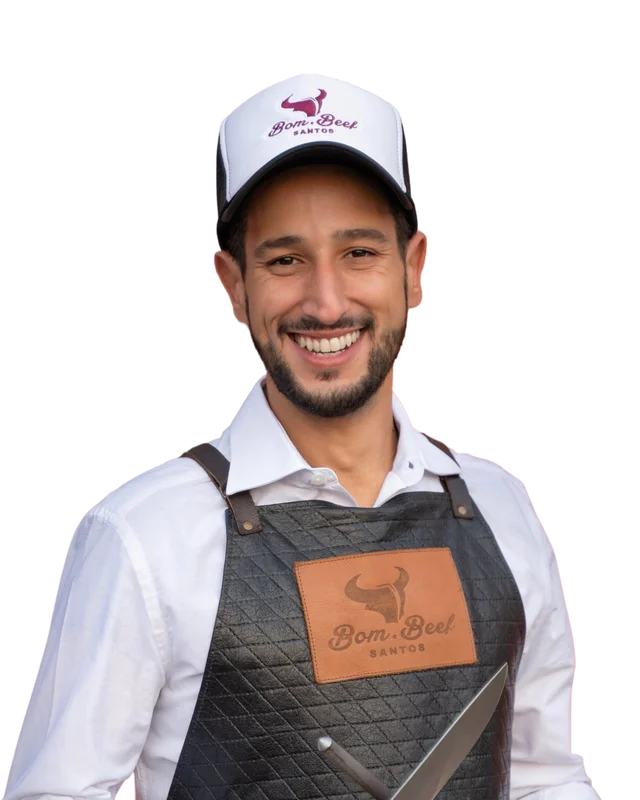
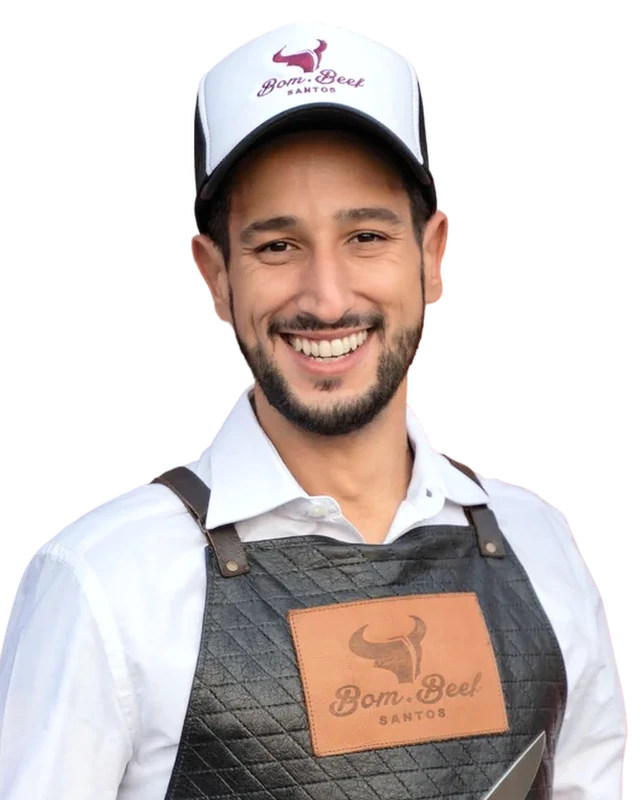
Convite: fotos novas Ingrid e Barreira, color grading unificado

diff --git a/public/convencao-2026/index.html b/public/convencao-2026/index.html
@@ -2070,13 +2070,13 @@ footer{padding:clamp(30px,4vw,48px) 0!important}
    Participante: {nome:'Nome', empresa:'Empresa', papel:'Palestrante', foto:'/convencao-2026/fotos/nome.jpg'}
    Parceiro:     {nome:'Marca', logo:'/convencao-2026/logos/marca.png', site:'https://...'}  (logo e site opcionais) */
 var PARTICIPANTES = [
-  {nome:'Edu Guedes', empresa:'Apresentador de TV', papel:'Chef de cozinha', foto:'/convencao-2026/fotos/edu-guedes.webp'},
-  {nome:'Netão', empresa:'Bom Beef', papel:'CEO', foto:'/convencao-2026/fotos/netao.webp'},
-  {nome:'Rogério Barreira', empresa:"McDonald's Brasil", papel:'Presidente', foto:'/convencao-2026/fotos/barreira.webp'},
-  {nome:'Ingrid Devisate', empresa:'IFB', papel:'VP', foto:'/convencao-2026/fotos/ingrid.webp'},
-  {nome:'Simone Galante', empresa:'Galunion', papel:'CEO', foto:'/convencao-2026/fotos/simone.webp'},
-  {nome:'Eduardo Pereira', empresa:'PMG', papel:'Gerente Comercial', foto:'/convencao-2026/fotos/eduardo.webp?v=2'},
-  {nome:'Edilson Neves', empresa:'PMG', papel:'Diretor de Marketing', foto:'/convencao-2026/fotos/edilson.webp?v=2'}
+  {nome:'Edu Guedes', empresa:'Apresentador de TV', papel:'Chef de cozinha', foto:'/convencao-2026/fotos/edu-guedes.webp?v=3'},
+  {nome:'Netão', empresa:'Bom Beef', papel:'CEO', foto:'/convencao-2026/fotos/netao.webp?v=3'},
+  {nome:'Rogério Barreira', empresa:"McDonald's Brasil", papel:'Presidente', foto:'/convencao-2026/fotos/barreira.webp?v=3'},
+  {nome:'Ingrid Devisate', empresa:'IFB', papel:'VP', foto:'/convencao-2026/fotos/ingrid.webp?v=3'},
+  {nome:'Simone Galante', empresa:'Galunion', papel:'CEO', foto:'/convencao-2026/fotos/simone.webp?v=3'},
+  {nome:'Eduardo Pereira', empresa:'PMG', papel:'Gerente Comercial', foto:'/convencao-2026/fotos/eduardo.webp?v=3'},
+  {nome:'Edilson Neves', empresa:'PMG', papel:'Diretor de Marketing', foto:'/convencao-2026/fotos/edilson.webp?v=3'}
 ];
 var PARCEIROS = [
   {nome:'Gomes da Costa', logo:'/convencao-2026/logos/gomes-da-costa.webp'},
